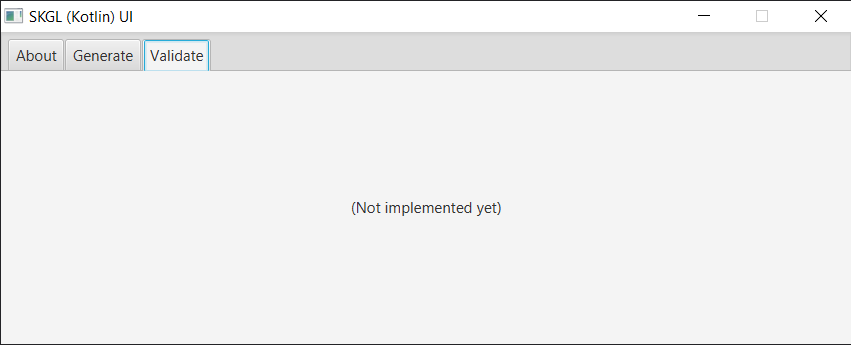
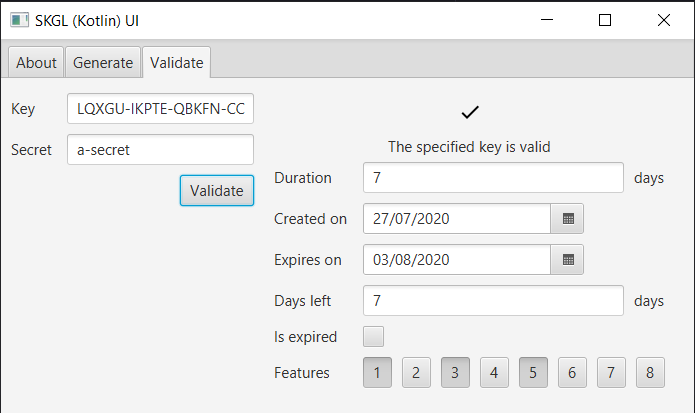
Add Validate view

diff --git a/skgl-ui/src/main/kotlin/dev/ravindu/skgl/ui/ValidateView.kt b/skgl-ui/src/main/kotlin/dev/ravindu/skgl/ui/ValidateView.kt
@@ -1,21 +1,154 @@
 package dev.ravindu.skgl.ui
 
+import dev.ravindu.skgl.SerialKey
+import javafx.beans.binding.Bindings
+import javafx.beans.property.*
+import javafx.collections.FXCollections
 import javafx.geometry.Pos
 import tornadofx.*
+import java.time.LocalDate
+import java.util.concurrent.Callable
 
 class ValidateController: Controller() {
+
+	val keyProperty = SimpleStringProperty("")
+	val secretProperty = SimpleStringProperty("")
+
+	val isValidProperty = SimpleBooleanProperty(true)
+	val messageProperty = SimpleStringProperty("Enter the serial key & secret via the controls on the left an hit \"Validate\"")
+
+	val durationProperty = SimpleIntegerProperty()
+	val createdOnProperty = SimpleObjectProperty<LocalDate>()
+	val expiresOnProperty = SimpleObjectProperty<LocalDate>()
+	val daysLeftProperty = SimpleIntegerProperty()
+	val isExpiredProperty = SimpleBooleanProperty()
+	val featuresProperty = SimpleSetProperty<Int>(FXCollections.observableSet())
+
+	fun decode() {
+
+		try {
+			val serial = SerialKey(keyProperty.value, secretProperty.value)
+			durationProperty.value = serial.duration
+			createdOnProperty.value = serial.createdOn
+			expiresOnProperty.value = serial.expiresOn
+			daysLeftProperty.value = serial.calculateDaysLeft().toInt()
+			isExpiredProperty.value = serial.calculateIsExpired()
+
+			featuresProperty.clear()
+			featuresProperty.addAll(serial.features)
+
+			messageProperty.value = "The specified key is valid"
+			isValidProperty.value = true
+
+		} catch (e: Exception) {
+			isValidProperty.value = false
+			messageProperty.value = "${e::class.simpleName}: ${e.message}"
+		}
+	}
 }
 
 class ValidateView: Fragment("Validate") {
 
 	val controller: ValidateController by inject()
 
-	override val root = vbox {
+	override val root = hbox {
 
-		style {
-			alignment = Pos.CENTER
+		form {
+
+			fieldset {
+
+				field("Key") {
+					textfield {
+						bind(controller.keyProperty)
+					}
+				}
+
+				field("Secret") {
+					textfield {
+						bind(controller.secretProperty)
+					}
+				}
+
+				field {
+					borderpane {
+						right = button("Validate") {
+							action {
+								controller.decode()
+							}
+						}
+					}
+				}
+			}
 		}
 
-		label("(Not implemented yet)")
+		form {
+
+			imageview("check.png") {
+				alignment = Pos.TOP_CENTER
+				scaleX = 0.5
+				scaleY = 0.5
+				visibleProperty().bind(controller.isValidProperty)
+				managedProperty().bind(controller.isValidProperty)
+			}
+
+			imageview("close.png") {
+				alignment = Pos.TOP_CENTER
+				scaleX = 0.5
+				scaleY = 0.5
+				visibleProperty().bind(controller.isValidProperty.not())
+				managedProperty().bind(controller.isValidProperty.not())
+			}
+
+			label {
+				bind(controller.messageProperty)
+			}
+
+			fieldset {
+				visibleProperty().bind(controller.isValidProperty)
+				managedProperty().bind(controller.isValidProperty)
+
+				field("Duration") {
+					textfield {
+						bind(controller.durationProperty)
+					}
+					label("days")
+				}
+
+				field("Created on") {
+					datepicker {
+						bind(controller.createdOnProperty)
+						isEditable = false
+					}
+				}
+
+				field("Expires on") {
+					datepicker {
+						bind(controller.expiresOnProperty)
+						isEditable = false
+					}
+				}
+
+				field("Days left") {
+					textfield {
+						bind(controller.daysLeftProperty)
+					}
+					label("days")
+				}
+
+				field("Is expired") {
+					checkbox {
+						bind(controller.isExpiredProperty)
+					}
+				}
+
+				field("Features") {
+					for (i in 1..8) {
+						togglebutton(i.toString(), selectFirst = false) {
+							selectedProperty().bind(Bindings.createBooleanBinding(Callable { controller.featuresProperty.contains(i) }, controller.featuresProperty))
+						}
+					}
+				}
+			}
+		}
 	}
 }

diff --git a/skgl-ui/src/main/kotlin/dev/ravindu/skgl/ui/SkglUiApp.kt b/skgl-ui/src/main/kotlin/dev/ravindu/skgl/ui/SkglUiApp.kt
@@ -8,7 +8,7 @@ class SkglUiApp: App(AppView::class) {
 
 	override fun start(stage: Stage) {
 		stage.apply {
-			isResizable = false
+			isResizable = true
 		}
 		super.start(stage)
 	}

diff --git a/README.md b/README.md
@@ -36,7 +36,7 @@ val daysLeft = key.calculateDaysLeft()
 
 <br>
 
-## UI Usage
+## UI
 
 The [TornadoFX](https://tornadofx.io/)-powered [skgl-ui](skgl-ui) project can be used to generate or validate keys,
 
